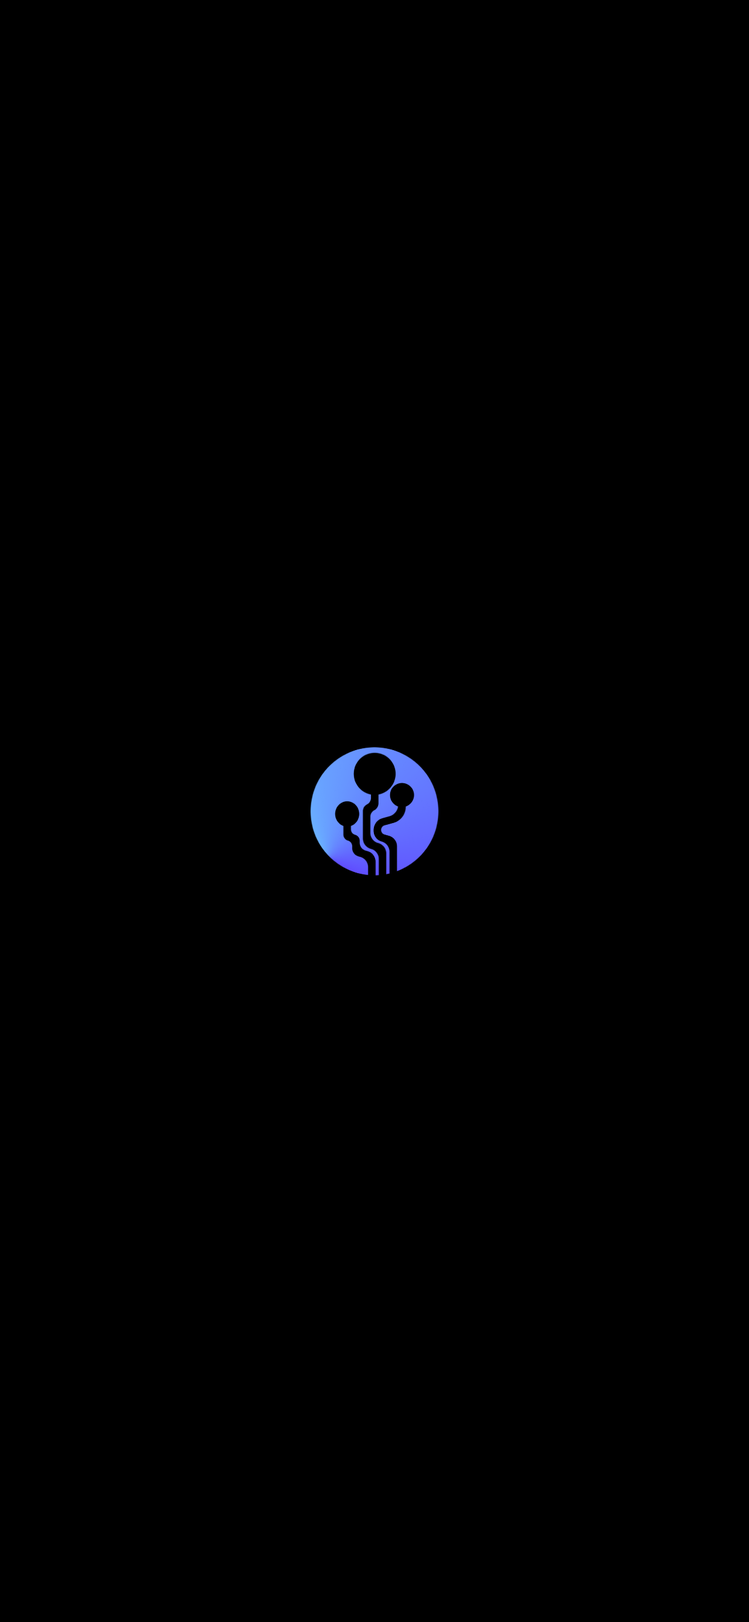
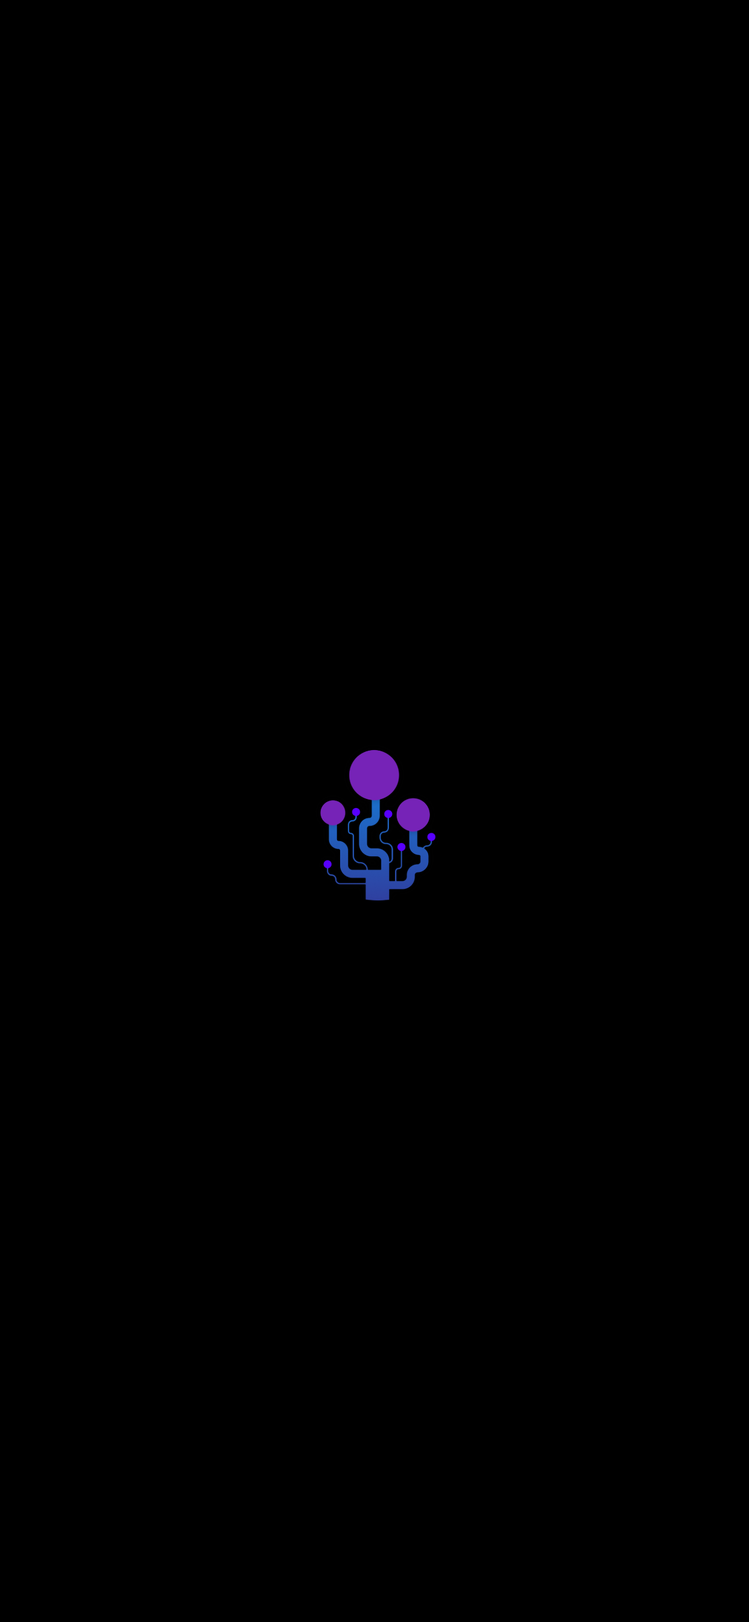
Rebranding

Changed region(s): [[0.3977, 0.4375, 0.5813, 0.5625]]

diff --git a/public/static/js/main.e8d6c904.js b/public/static/js/main.e8d6c904.js
@@ -1,0 +1,2 @@
+(()=>{var e={3598:(e,r,a)=>{var t={"./android.png":2479,"./app-core.png":2643,"./background.jpg":4940,"./docker.webp":164,"./express.png":3730,"./ios.png":2629,"./miro-rest.png":4083,"./mongodb.png":571,"./ngrok.png":4895,"./nodejs.png":7809,"./raspberrypi.png":4587,"./sai.png":2822,"./saileft.png":1729,"./section-actually.jpg":7322,"./section-platform.jpg":901,"./section-security.jpg":5726,"./ubuntuserver.png":7999};function n(e){var r=i(e);return a(r)}function i(e){if(!a.o(t,e)){var r=new Error("Cannot find module '"+e+"'");throw r.code="MODULE_NOT_FOUND",r}return t[e]}n.keys=function(){return Object.keys(t)},n.resolve=i,e.exports=n,n.id=3598},9784:(e,r,a)=>{"use strict";a.r(r),a.d(r,{default:()=>_});var t=a(4942),n=a(9439),i=a(5861),o=a(574),s=a(5911),l=a(2703),c=a(5899),d=a(5908),u=a(3026),p=a(1019),h=a(4755),f=a(6625),g=a(3102),b=a(1787),m=a(7557);function x(e){var r=e.children,t=e.style,n=e.uri,i=(0,p.default)(),l=(i.width,i.height,(0,s.useTheme)());return(0,m.jsxs)(o.Flex,{style:t,children:[n&&(0,m.jsxs)(o.Flex,{w:"100%",h:"100%",center:!0,style:{position:"absolute"},children:[(0,m.jsx)(b.default,{source:a(3598)("./"+n),resizeMode:"cover",style:{width:"100%",height:"100%",zIndex:-10}}),(0,m.jsx)(o.Flex,{w:"100%",h:"100%",style:{backgroundColor:l.colors.cover,position:"absolute"}})]}),(0,m.jsx)(o.Flex,{w:"100%",maxW:1e3,pv:100,ph:25,style:{alignSelf:"center"},children:r})]})}var j=a(5931),v=a(2727);a(9526);function y(e){e.children;var r=e.title,t=e.content,n=e.action,i=e.text,u=e.uri,p=e.icon,h=(0,s.useTheme)();return(0,m.jsxs)(o.VStack,{spacing:10,fill:!0,style:{borderColor:h.colors.outline,borderWidth:1,borderStyle:"solid",borderRadius:10},p:20,children:[u&&(0,m.jsx)(d.Image,{contentFit:"contain",contentPosition:"left center",source:a(3598)("./"+u),style:{width:150,height:150}}),r&&(0,m.jsx)(c.default,{variant:"titleLarge",children:r}),t&&(0,m.jsx)(c.default,{variant:"bodyLarge",children:t}),n&&(0,m.jsxs)(m.Fragment,{children:[(0,m.jsx)(o.Spacer,{pb:25}),(0,m.jsx)(o.HStack,{justify:"end",children:(0,m.jsx)(l.default,{mode:"outlined",icon:null!=p?p:null,onPress:function(){return n()},children:i})})]})]})}function w(){var e=(0,s.useTheme)(),r=(0,v.useNavigation)(),t=(0,p.default)(),n=t.width,b=t.height,w=(0,h.useSharedValue)(0),S=(0,f.useAnimatedStyle)(function(){var e=function(){return{transform:[{translateY:w.value}]}};return e._closure={scrollY:w},e.asString="function _f(){const{scrollY}=jsThis._closure;{return{transform:[{translateY:scrollY.value}]};}}",e.__workletHash=3073542876934,e.__location="C:\\Users\\misog\\Documents\\git\\miro-app\\views\\StartingPage.jsx (27:42)",e.__optimalization=3,e}());return(0,m.jsxs)(u.default,{onScroll:function(e){w.value=.5*e.nativeEvent.contentOffset.y},scrollEventThrottle:16,style:{height:"100%",backgroundColor:e.colors.background},children:[(0,m.jsxs)(o.Flex,{center:!0,w:n,h:b,style:{shadowColor:e.colors.shadow,shadowOffset:{width:0,height:0},shadowRadius:50,overflow:"hidden",zIndex:10},children:[(0,m.jsx)(g.default,{style:[{width:"100%",height:"100%"},S],children:(0,m.jsx)(d.Image,{source:a(4940),contentFit:"cover",contentPosition:"center",style:{width:"100%",height:"100%"}})}),(0,m.jsx)(o.Flex,{center:!0,style:{position:"absolute",width:"100%",height:"100%",backgroundColor:e.colors.backdrop,zIndex:5},children:(0,m.jsxs)(o.VStack,{center:!0,ph:"10vw",w:"100%",h:"100%",spacing:20,children:[(0,m.jsx)(d.Image,{source:a(2822),contentFit:"contain",style:{height:"50%",width:"90%",maxWidth:750,maxHeight:150}}),(0,m.jsx)(o.Wrap,{spacing:10,children:(0,m.jsx)(l.default,{icon:"github",mode:"contained",onPress:(0,i.default)((function*(){yield j.openURL("https://www.github.com/SAI-COLOMOS")})),children:"Ver GitHub"})})]})})]}),(0,m.jsx)(x,{uri:"section-actually.jpg",children:(0,m.jsxs)(o.VStack,{spacing:20,children:[(0,m.jsx)(o.Flex,{w:"100%",children:(0,m.jsx)(c.default,{variant:"displayMedium",children:"\xbfPor qu\xe9 seguir haciendo las cosas a la antigua?"})}),(0,m.jsx)(o.Flex,{w:"100%",children:(0,m.jsx)(c.default,{variant:"bodyLarge",children:"En un mundo donde la era digital es dominante... \xbfpor qu\xe9 no modernizarse? Gracias a la tecnolog\xeda podemos automatizar procesos que pueden llegar a ser repetitivos, adem\xe1s de que tambi\xe9n podemos delegar tareas para que sean justamente los dispositivos electr\xf3nicos quienes se encarguen de llevarlas a cabo, siendo, en algunos casos, mejor ejecutas que si un humano lo hubiese hecho"})})]})}),(0,m.jsx)(x,{uri:"section-platform.jpg",children:(0,m.jsxs)(o.VStack,{spacing:20,children:[(0,m.jsx)(o.Flex,{w:"100%",children:(0,m.jsx)(c.default,{variant:"displayMedium",children:"Una plataforma para administrarlo todo"})}),(0,m.jsx)(o.Flex,{w:"100%",children:(0,m.jsx)(c.default,{variant:"bodyLarge",children:"Nosotros creemos que hay mejores maneras de hacer las cosas, una de ellas es llevar a cabo la administraci\xf3n del servicio social, es por ello, que decidimos crear una plataforma la cual pueda cumplir con esta tarea y, de esta manera, es que desarrollamos tanto una API como una aplicaci\xf3n m\xf3vil"})})]})}),(0,m.jsx)(x,{style:{backgroundColor:e.colors.tertiaryContainer,shadowColor:e.colors.shadow,shadowOffset:{width:0,height:0},shadowRadius:50,zIndex:10},children:(0,m.jsxs)(o.VStack,{spacing:20,children:[(0,m.jsx)(o.Flex,{w:"100%",children:(0,m.jsx)(c.default,{variant:"displayMedium",children:"Aplicaci\xf3n y servidor, un match perfecto"})}),(0,m.jsxs)(o.VStack,{w:"100%",spacing:20,children:[(0,m.jsx)(c.default,{variant:"bodyLarge",children:"Nuestra plataforma se compone de dos pilares fundamentales: nuestro servidor, el cual funciona como una API REST; y nuestra aplicaci\xf3n, que es el medio por el cual los usuarios har\xe1n uso de la plataforma"}),(0,m.jsxs)(o.Wrap,{spacing:20,wrap:"wrap",children:[(0,m.jsx)(o.VStack,{fill:!0,minW:300,children:(0,m.jsx)(y,{uri:"miro-rest.png",title:"MIRO-REST",content:"Es nuestro servidor, el cual consta de propiamente dicho, un\r servidor, y que adem\xe1s cuenta con una base de datos",action:function(){return r.navigate("Detalles t\xe9cnicos del servidor")},text:"Ver detalles t\xe9cnicos",icon:"format-list-bulleted-type"})}),(0,m.jsx)(o.VStack,{fill:!0,minW:300,children:(0,m.jsx)(y,{uri:"app-core.png",title:"Servicio social",content:"Es la aplicaci\xf3n mediante la cual, los administradores,\r encargados y prestadores har\xe1 uso de la plataforma",action:function(){return r.navigate("Detalles t\xe9cnicos de la aplicaci\xf3n")},text:"Ver detalles t\xe9cnicos",icon:"format-list-bulleted-type"})})]})]})]})}),(0,m.jsx)(x,{uri:"section-security.jpg",children:(0,m.jsxs)(o.VStack,{children:[(0,m.jsx)(o.Flex,{w:"100%",children:(0,m.jsx)(c.default,{variant:"displayMedium",children:"Seguridad ante todo"})}),(0,m.jsxs)(o.VStack,{w:"100%",spacing:20,children:[(0,m.jsx)(c.default,{variant:"bodyLarge",children:"Nos tomamos en serio tu privacidad, ya que al ser una plataforma que maneja datos personales, es necesario que sepas qu\xe9 hacemos con toda la informaci\xf3n que t\xfa y los dem\xe1s usuarios nos brindan. Es por ello que cumplimos con ciertas caracter\xedsticas para que puedas estar tranquilo de que tu informaci\xf3n est\xe1 en un buen lugar"}),(0,m.jsx)(o.Flex,{justify:"end",items:"end",children:(0,m.jsx)(l.default,{mode:"outlined",icon:"security",onPress:(0,i.default)((function*(){return yield j.openURL("https://api.sai-colomos.dev/security-report.pdf")})),children:"Ver reporte de seguridad"})})]})]})}),(0,m.jsx)(o.Flex,{style:{backgroundColor:"#000",shadowColor:e.colors.shadow,shadowOffset:{width:0,height:0},shadowRadius:50,overflow:"hidden",zIndex:10},children:(0,m.jsxs)(o.Wrap,{wrap:"wrap",spacing:20,w:"100%",maxW:1e3,pt:50,pb:100,ph:25,style:{alignSelf:"center"},children:[(0,m.jsxs)(o.VStack,{fill:!0,minW:300,spacing:10,children:[(0,m.jsx)(d.Image,{source:a(1729),contentFit:"contain",contentPosition:"left center",style:{width:"auto",height:75}}),(0,m.jsx)(c.default,{variant:"bodyLarge",children:"Derechos reservados. 2023 \xa9"})]}),(0,m.jsxs)(o.Flex,{fill:!0,minW:300,items:n>600?"end":"start",children:[(0,m.jsx)(c.default,{role:"link",href:"https://www.github.com/SAI-COLOMOS",variant:"bodyMedium",children:"GitHub"}),(0,m.jsx)(c.default,{role:"button",onPress:function(){return r.navigate("Detalles t\xe9cnicos del servidor")},variant:"bodyMedium",children:"Detalles t\xe9cnicos del servidor"}),(0,m.jsx)(c.default,{onPress:function(){return r.navigate("Detalles t\xe9cnicos de la aplicaci\xf3n")},variant:"bodyMedium",children:"Detalles t\xe9cnicos de la aplicaci\xf3n"}),(0,m.jsx)(c.default,{role:"link",href:"https://api.sai-colomos.dev/security-report.pdf",variant:"bodyMedium",children:"Reporte de seguridad"})]})]})})]})}var S=a(2698),k=a(3615),O=a(5690),q=a(477),C=a(7077);function P(e){var r=e.title,a=e.children,t=(0,s.useTheme)(),n=(0,p.default)().height,i=(0,v.useNavigation)();return(0,m.jsxs)(q.default,{style:{overflow:"hidden",height:n,backgroundColor:t.colors.background},children:[(0,m.jsx)(o.Flex,{style:{shadowRadius:50,shadowOffset:{width:0,height:0},shadowColor:t.colors.shadow,zIndex:10},children:(0,m.jsxs)(o.HStack,{justify:"between",items:"baseline",w:"100%",maxW:1e3,pv:25,ph:25,style:{alignSelf:"center"},spacing:20,children:[(0,m.jsx)(o.Flex,{fill:!0,children:(0,m.jsx)(c.default,{variant:"headlineLarge",children:r})}),(0,m.jsx)(C.default,{icon:"close",size:25,mode:"outlined",onPress:function(){return i.goBack()}})]})}),(0,m.jsx)(o.Flex,{fill:!0,children:(0,m.jsx)(u.default,{children:a})})]})}function F(){var e=(0,s.useTheme)();return(0,m.jsx)(P,{title:"Detalles t\xe9cnicos de la aplicaci\xf3n",children:(0,m.jsxs)(o.VStack,{children:[(0,m.jsx)(x,{style:{backgroundColor:e.colors.backdrop},children:(0,m.jsxs)(m.Fragment,{children:[(0,m.jsx)(c.default,{variant:"titleLarge",children:"Un lenguaje varias posibilidades"}),(0,m.jsx)(c.default,{variant:"bodyLarge",children:"La aplicaci\xf3n fue creada enteramente con JavaScript, utilizando la librer\xeda de React Native y el framework de Expo"})]})}),(0,m.jsx)(x,{style:{backgroundColor:e.colors.primaryContainer},children:(0,m.jsxs)(m.Fragment,{children:[(0,m.jsx)(c.default,{variant:"titleLarge",children:"Multiplataforma, nadie se queda afuera"}),(0,m.jsx)(c.default,{variant:"bodyLarge",children:"Gracias a la versatilidad de React Native, nuestra aplicaci\xf3n est\xe1 disponible para los dos principales sistemas operativos para tel\xe9fonos inteligentes: iOS y Android, por lo que cualquier persona podr\xe1 utilizar esta app sin importar qu\xe9 dispositivo m\xf3vil utilice, claro, siempre y cuando este cumpla con los requisitos m\xednimos de hardware y software"}),(0,m.jsxs)(o.Wrap,{spacing:20,wrap:"wrap",pt:20,children:[(0,m.jsx)(o.VStack,{fill:!0,minW:300,children:(0,m.jsx)(y,{uri:"android.png",title:"Android",content:"Nuestra aplicaci\xf3n es compatible con todos aquellos\r dispositivos Android que tengan la versi\xf3n 5 en adelante"})}),(0,m.jsx)(o.VStack,{fill:!0,minW:300,children:(0,m.jsx)(y,{uri:"ios.png",title:"iOS",content:"Nuestra aplicaci\xf3n es compatible con todos aquellos\r dispositivos iOS que tengan la versi\xf3n 13 en adelante"})})]})]})})]})})}function V(){var e=(0,s.useTheme)();return(0,m.jsx)(P,{title:"Detalles t\xe9cnicos del servidor",children:(0,m.jsxs)(o.VStack,{children:[(0,m.jsx)(x,{style:{backgroundColor:e.colors.backdrop},children:(0,m.jsxs)(m.Fragment,{children:[(0,m.jsx)(c.default,{variant:"titleLarge",children:"Un viejo conocido bajo el cap\xf3"}),(0,m.jsx)(c.default,{variant:"bodyLarge",children:"Nuestro servidor corre enteramente gracias a TypeScript, un superconjunto de JavaScript, con esto nos aseguramos de brindar un software lo suficientemente robusto, estable y a su vez escalable y familiar"})]})}),(0,m.jsx)(x,{style:{backgroundColor:e.colors.primaryContainer},children:(0,m.jsxs)(m.Fragment,{children:[(0,m.jsx)(c.default,{variant:"titleLarge",children:"Node.JS, Express y MongoDB"}),(0,m.jsx)(c.default,{variant:"bodyLarge",children:"El trio perfecto para entregar un software robusto y moderno a la vez"}),(0,m.jsxs)(o.Wrap,{spacing:20,wrap:"wrap",pt:20,children:[(0,m.jsx)(o.VStack,{fill:!0,minW:300,children:(0,m.jsx)(y,{uri:"nodejs.png",title:"Node.js",content:"El director encargado de orquestar esta obra, pues es gracias\r a \xe9l que el servidor funciona"})}),(0,m.jsx)(o.VStack,{fill:!0,minW:300,children:(0,m.jsx)(y,{uri:"express.png",title:"Express",content:"\xbfUna nueva petici\xf3n acaba de llegar al servidor? No hay\r problema, Express se encarga de recibirlas y contestarlas, as\xed\r como de realizar las modificaciones solicitadas"})}),(0,m.jsx)(o.VStack,{fill:!0,minW:300,children:(0,m.jsx)(y,{uri:"mongodb.png",title:"MongoDB",content:"Un servidor no es servidor si este no cuenta con su respectiva\r base de datos, as\xed que MongoBD llega para tomar dicho rol tan\r importante: almacenar informaci\xf3n"})})]})]})}),(0,m.jsx)(x,{style:{backgroundColor:e.colors.secondaryContainer},children:(0,m.jsxs)(m.Fragment,{children:[(0,m.jsx)(c.default,{variant:"titleLarge",children:"Acerca de la infraestructura"}),(0,m.jsx)(c.default,{variant:"bodyLarge",children:"Sin esto, el software simplemente no funcionaria"}),(0,m.jsxs)(o.Wrap,{spacing:20,wrap:"wrap",pt:20,children:[(0,m.jsx)(o.VStack,{fill:!0,minW:300,children:(0,m.jsx)(y,{uri:"docker.webp",title:"Docker",content:"Docker se encarga de virtualizar, contener, ejecutar \r y asilar los dos contenedores (uno para la API y otro para la \r base de datos) que conforman el servidor"})}),(0,m.jsx)(o.VStack,{fill:!0,minW:300,children:(0,m.jsx)(y,{uri:"ngrok.png",title:"ngrok",content:"\xbfTener que mover el servidor? Claro, no hay necesidad de\r configurar la IP est\xe1tica y alterar los DNS que apunten a nuestro\r servidor, ngrok nos ayuda con ello levantando un t\xfanel que lo conecte\r con el internet"})}),(0,m.jsx)(o.VStack,{fill:!0,minW:300,children:(0,m.jsx)(y,{uri:"ubuntuserver.png",title:"Ubuntu Server",content:"Un servidor con Linux, \xbfquien lo dir\xeda? Todo el software\r es ejecutado bajo la tutela de Ubuntu Server"})}),(0,m.jsx)(o.VStack,{fill:!0,minW:300,children:(0,m.jsx)(y,{uri:"raspberrypi.png",title:"Raspberry Pi",content:"No todo es software, actualmente el servidor est\xe1 alojado\r en una Raspberry Pi v4, ideal para realizar proyectos escolares y de IT"})})]})]})})]})})}var D=(0,a(442).default)();function L(){return(0,m.jsxs)(D.Navigator,{initialRouteName:"Inicio",screenOptions:{headerShown:!1,animation:"fade",contentStyle:{height:50}},children:[(0,m.jsx)(D.Screen,{name:"Inicio",component:w}),(0,m.jsx)(D.Screen,{name:"Detalles t\xe9cnicos del servidor",component:V}),(0,m.jsx)(D.Screen,{name:"Detalles t\xe9cnicos de la aplicaci\xf3n",component:F})]})}var W=a(8083),E={dark:!0,colors:{primary:"rgb(220, 184, 255)",onPrimary:"rgb(71, 12, 122)",primaryContainer:"rgb(95, 43, 146)",onPrimaryContainer:"rgb(240, 219, 255)",secondary:"rgb(208, 193, 218)",onSecondary:"rgb(54, 44, 63)",secondaryContainer:"rgb(77, 67, 87)",onSecondaryContainer:"rgb(237, 221, 246)",tertiary:"rgb(243, 183, 190)",onTertiary:"rgb(75, 37, 43)",tertiaryContainer:"rgb(101, 58, 65)",onTertiaryContainer:"rgb(255, 217, 221)",error:"rgb(255, 180, 171)",onError:"rgb(105, 0, 5)",errorContainer:"rgb(147, 0, 10)",onErrorContainer:"rgb(255, 180, 171)",background:"rgb(29, 27, 30)",onBackground:"rgb(231, 225, 229)",surface:"rgb(29, 27, 30)",onSurface:"rgb(231, 225, 229)",surfaceVariant:"rgb(74, 69, 78)",onSurfaceVariant:"rgb(204, 196, 206)",outline:"rgb(150, 142, 152)",outlineVariant:"rgb(74, 69, 78)",shadow:"rgb(0, 0, 0)",scrim:"rgb(0, 0, 0)",inverseSurface:"rgb(231, 225, 229)",inverseOnSurface:"rgb(50, 47, 51)",inversePrimary:"rgb(120, 69, 172)",elevation:{level0:"transparent",level1:"rgb(39, 35, 41)",level2:"rgb(44, 40, 48)",level3:"rgb(50, 44, 55)",level4:"rgb(52, 46, 57)",level5:"rgb(56, 49, 62)"},surfaceDisabled:"rgba(231, 225, 229, 0.12)",onSurfaceDisabled:"rgba(231, 225, 229, 0.38)",backdrop:"rgba(51, 47, 55, 0.4)",cover:"rgba(31, 27, 35, 0.8)"}};function M(e,r){var a=Object.keys(e);if(Object.getOwnPropertySymbols){var t=Object.getOwnPropertySymbols(e);r&&(t=t.filter((function(r){return Object.getOwnPropertyDescriptor(e,r).enumerable}))),a.push.apply(a,t)}return a}function T(e){for(var r=1;r<arguments.length;r++){var a=null!=arguments[r]?arguments[r]:{};r%2?M(Object(a),!0).forEach((function(r){(0,t.default)(e,r,a[r])})):Object.getOwnPropertyDescriptors?Object.defineProperties(e,Object.getOwnPropertyDescriptors(a)):M(Object(a)).forEach((function(r){Object.defineProperty(e,r,Object.getOwnPropertyDescriptor(a,r))}))}return e}function _(){var e=(0,W.useFonts)({LexendDeca:a(1775)});if((0,n.default)(e,1)[0]){var r=T(T({},E),{},{fonts:(0,S.default)({config:{fontFamily:"LexendDeca"}})});return(0,m.jsx)(k.default,{theme:r,children:(0,m.jsx)(O.default,{theme:r,children:(0,m.jsx)(L,{})})})}return null}},1775:(e,r,a)=>{"use strict";e.exports=a.p+"static/media/LexendDeca.85a26ab7491852266e9b.ttf"},164:(e,r,a)=>{"use strict";e.exports=a.p+"static/media/docker.50ef259c2ba21b66c115.webp"},2479:(e,r,a)=>{"use strict";e.exports=a.p+"static/media/android.1069615e0494feaf1759.png"},2643:(e,r,a)=>{"use strict";e.exports=a.p+"static/media/app-core.80c3330efecebbd5330b.png"},4940:(e,r,a)=>{"use strict";e.exports=a.p+"static/media/background.29b1b8fd50e59ae0f52c.jpg"},3730:(e,r,a)=>{"use strict";e.exports=a.p+"static/media/express.9ca72e66d293a4b6af4b.png"},2629:(e,r,a)=>{"use strict";e.exports=a.p+"static/media/ios.7751f69fbba407de6b8e.png"},4083:(e,r,a)=>{"use strict";e.exports=a.p+"static/media/miro-rest.5f01768cd593059c90cd.png"},571:(e,r,a)=>{"use strict";e.exports=a.p+"static/media/mongodb.3a364684503a40b5fbb2.png"},4895:(e,r,a)=>{"use strict";e.exports=a.p+"static/media/ngrok.96924a838aba064d84b3.png"},7809:(e,r,a)=>{"use strict";e.exports=a.p+"static/media/nodejs.abfaef34ea49d0c7cd3c.png"},4587:(e,r,a)=>{"use strict";e.exports=a.p+"static/media/raspberrypi.70eccdd62334be1be186.png"},2822:(e,r,a)=>{"use strict";e.exports=a.p+"static/media/sai.22a68ad6c62ac595a7cd.png"},1729:(e,r,a)=>{"use strict";e.exports=a.p+"static/media/saileft.22a68ad6c62ac595a7cd.png"},7322:(e,r,a)=>{"use strict";e.exports=a.p+"static/media/section-actually.6729cc9df1cfc8d35820.jpg"},901:(e,r,a)=>{"use strict";e.exports=a.p+"static/media/section-platform.0332f0dfd0127fc41d8a.jpg"},5726:(e,r,a)=>{"use strict";e.exports=a.p+"static/media/section-security.079fde31563fdf7cd8c2.jpg"},7999:(e,r,a)=>{"use strict";e.exports=a.p+"static/media/ubuntuserver.fca5830985d91d4f0769.png"},4654:()=>{}},r={};function a(t){var n=r[t];if(void 0!==n)return n.exports;var i=r[t]={id:t,loaded:!1,exports:{}};return e[t].call(i.exports,i,i.exports,a),i.loaded=!0,i.exports}a.m=e,(()=>{var e=[];a.O=(r,t,n,i)=>{if(!t){var o=1/0;for(d=0;d<e.length;d++){for(var[t,n,i]=e[d],s=!0,l=0;l<t.length;l++)(!1&i||o>=i)&&Object.keys(a.O).every((e=>a.O[e](t[l])))?t.splice(l--,1):(s=!1,i<o&&(o=i));if(s){e.splice(d--,1);var c=n();void 0!==c&&(r=c)}}return r}i=i||0;for(var d=e.length;d>0&&e[d-1][2]>i;d--)e[d]=e[d-1];e[d]=[t,n,i]}})(),a.n=e=>{var r=e&&e.__esModule?()=>e.default:()=>e;return a.d(r,{a:r}),r},(()=>{var e,r=Object.getPrototypeOf?e=>Object.getPrototypeOf(e):e=>e.__proto__;a.t=function(t,n){if(1&n&&(t=this(t)),8&n)return t;if("object"===typeof t&&t){if(4&n&&t.__esModule)return t;if(16&n&&"function"===typeof t.then)return t}var i=Object.create(null);a.r(i);var o={};e=e||[null,r({}),r([]),r(r)];for(var s=2&n&&t;"object"==typeof s&&!~e.indexOf(s);s=r(s))Object.getOwnPropertyNames(s).forEach((e=>o[e]=()=>t[e]));return o.default=()=>t,a.d(i,o),i}})(),a.d=(e,r)=>{for(var t in r)a.o(r,t)&&!a.o(e,t)&&Object.defineProperty(e,t,{enumerable:!0,get:r[t]})},a.g=function(){if("object"===typeof globalThis)return globalThis;try{return this||new Function("return this")()}catch(e){if("object"===typeof window)return window}}(),a.o=(e,r)=>Object.prototype.hasOwnProperty.call(e,r),a.r=e=>{"undefined"!==typeof Symbol&&Symbol.toStringTag&&Object.defineProperty(e,Symbol.toStringTag,{value:"Module"}),Object.defineProperty(e,"__esModule",{value:!0})},a.nmd=e=>(e.paths=[],e.children||(e.children=[]),e),a.p="/",(()=>{var e={179:0};a.O.j=r=>0===e[r];var r=(r,t)=>{var n,i,[o,s,l]=t,c=0;if(o.some((r=>0!==e[r]))){for(n in s)a.o(s,n)&&(a.m[n]=s[n]);if(l)var d=l(a)}for(r&&r(t);c<o.length;c++)i=o[c],a.o(e,i)&&e[i]&&e[i][0](),e[i]=0;return a.O(d)},t=self.webpackChunkweb=self.webpackChunkweb||[];t.forEach(r.bind(null,0)),t.push=r.bind(null,t.push.bind(t))})();var t=a.O(void 0,[958],(()=>a(9484)));t=a.O(t)})();
+//# sourceMappingURL=main.e8d6c904.js.map

diff --git a/public/index.html b/public/index.html
@@ -1,1 +1,1 @@
-<!doctype html><html lang="en"><head><meta charset="utf-8"/><meta httpequiv="X-UA-Compatible" content="IE=edge"/><meta name="viewport" content="width=device-width,initial-scale=1,minimum-scale=1,maximum-scale=1.00001,viewport-fit=cover"/><title>Sistema Administrativo de la Información</title><style>#root,body,html{width:100%;-webkit-overflow-scrolling:touch;margin:0;padding:0;min-height:100%}#root{flex-shrink:0;flex-basis:auto;flex-grow:1;display:flex;flex:1}html{scroll-behavior:smooth;-webkit-text-size-adjust:100%;height:calc(100% + env(safe-area-inset-top))}body{display:flex;overflow-y:auto;overscroll-behavior-y:none;text-rendering:optimizeLegibility;-webkit-font-smoothing:antialiased;-moz-osx-font-smoothing:grayscale;-ms-overflow-style:scrollbar}</style><link rel="manifest" href="\manifest.json"><link rel="icon" type="image/png" sizes="16x16" href="\favicon-16.png"><link rel="icon" type="image/png" sizes="32x32" href="\favicon-32.png"><link rel="shortcut icon" href="\favicon.ico"><meta name="mobile-web-app-capable" content="yes"><meta name="apple-mobile-web-app-capable" content="yes"><meta name="apple-touch-fullscreen" content="yes"><meta name="apple-mobile-web-app-title" content="Sistema Administrativo de la Información"><meta name="apple-mobile-web-app-status-bar-style" content="black-translucent"><link rel="apple-touch-icon" sizes="180x180" href="\pwa\apple-touch-icon\apple-touch-icon-180.png"><link rel="apple-touch-startup-image" media="screen and (device-width: 320px) and (device-height: 568px) and (-webkit-device-pixel-ratio: 2) and (orientation: portrait)" href="\pwa\apple-touch-startup-image\apple-touch-startup-image-640x1136.png"><link rel="apple-touch-startup-image" media="screen and (device-width: 414px) and (device-height: 896px) and (-webkit-device-pixel-ratio: 3) and (orientation: portrait)" href="\pwa\apple-touch-startup-image\apple-touch-startup-image-1242x2688.png"><link rel="apple-touch-startup-image" media="screen and (device-width: 414px) and (device-height: 896px) and (-webkit-device-pixel-ratio: 2) and (orientation: portrait)" href="\pwa\apple-touch-startup-image\apple-touch-startup-image-828x1792.png"><link rel="apple-touch-startup-image" media="screen and (device-width: 375px) and (device-height: 812px) and (-webkit-device-pixel-ratio: 3) and (orientation: portrait)" href="\pwa\apple-touch-startup-image\apple-touch-startup-image-1125x2436.png"><link rel="apple-touch-startup-image" media="screen and (device-width: 414px) and (device-height: 736px) and (-webkit-device-pixel-ratio: 3) and (orientation: portrait)" href="\pwa\apple-touch-startup-image\apple-touch-startup-image-1242x2208.png"><link rel="apple-touch-startup-image" media="screen and (device-width: 375px) and (device-height: 667px) and (-webkit-device-pixel-ratio: 2) and (orientation: portrait)" href="\pwa\apple-touch-startup-image\apple-touch-startup-image-750x1334.png"><link rel="apple-touch-startup-image" media="screen and (device-width: 1024px) and (device-height: 1366px) and (-webkit-device-pixel-ratio: 2) and (orientation: portrait)" href="\pwa\apple-touch-startup-image\apple-touch-startup-image-2048x2732.png"><link rel="apple-touch-startup-image" media="screen and (device-width: 834px) and (device-height: 1194px) and (-webkit-device-pixel-ratio: 2) and (orientation: portrait)" href="\pwa\apple-touch-startup-image\apple-touch-startup-image-1668x2388.png"><link rel="apple-touch-startup-image" media="screen and (device-width: 834px) and (device-height: 1112px) and (-webkit-device-pixel-ratio: 2) and (orientation: portrait)" href="\pwa\apple-touch-startup-image\apple-touch-startup-image-1668x2224.png"><link rel="apple-touch-startup-image" media="screen and (device-width: 768px) and (device-height: 1024px) and (-webkit-device-pixel-ratio: 2) and (orientation: portrait)" href="\pwa\apple-touch-startup-image\apple-touch-startup-image-1536x2048.png"><script defer="defer" src="/static/js/958.3daf8c35.js"></script><script defer="defer" src="/static/js/main.d4bb841e.js"></script></head><body><noscript><form action="" style="background-color:#fff;position:fixed;top:0;left:0;right:0;bottom:0;z-index:9999"><div style="font-size:18px;font-family:Helvetica,sans-serif;line-height:24px;margin:10%;width:80%"><p>Oh no! It looks like JavaScript is not enabled in your browser.</p><p style="margin:20px 0"><button type="submit" style="background-color:#4630eb;border-radius:100px;border:none;box-shadow:none;color:#fff;cursor:pointer;font-weight:700;line-height:20px;padding:6px 16px">Reload</button></p></div></form></noscript><div id="root"></div></body></html>
+<!doctype html><html lang="en"><head><meta charset="utf-8"/><meta httpequiv="X-UA-Compatible" content="IE=edge"/><meta name="viewport" content="width=device-width,initial-scale=1,minimum-scale=1,maximum-scale=1.00001,viewport-fit=cover"/><title>Sistema Administrativo de la Información</title><style>#root,body,html{width:100%;-webkit-overflow-scrolling:touch;margin:0;padding:0;min-height:100%}#root{flex-shrink:0;flex-basis:auto;flex-grow:1;display:flex;flex:1}html{scroll-behavior:smooth;-webkit-text-size-adjust:100%;height:calc(100% + env(safe-area-inset-top))}body{display:flex;overflow-y:auto;overscroll-behavior-y:none;text-rendering:optimizeLegibility;-webkit-font-smoothing:antialiased;-moz-osx-font-smoothing:grayscale;-ms-overflow-style:scrollbar}</style><link rel="manifest" href="\manifest.json"><link rel="icon" type="image/png" sizes="16x16" href="\favicon-16.png"><link rel="icon" type="image/png" sizes="32x32" href="\favicon-32.png"><link rel="shortcut icon" href="\favicon.ico"><meta name="mobile-web-app-capable" content="yes"><meta name="apple-mobile-web-app-capable" content="yes"><meta name="apple-touch-fullscreen" content="yes"><meta name="apple-mobile-web-app-title" content="Sistema Administrativo de la Información"><meta name="apple-mobile-web-app-status-bar-style" content="black-translucent"><link rel="apple-touch-icon" sizes="180x180" href="\pwa\apple-touch-icon\apple-touch-icon-180.png"><link rel="apple-touch-startup-image" media="screen and (device-width: 320px) and (device-height: 568px) and (-webkit-device-pixel-ratio: 2) and (orientation: portrait)" href="\pwa\apple-touch-startup-image\apple-touch-startup-image-640x1136.png"><link rel="apple-touch-startup-image" media="screen and (device-width: 414px) and (device-height: 896px) and (-webkit-device-pixel-ratio: 3) and (orientation: portrait)" href="\pwa\apple-touch-startup-image\apple-touch-startup-image-1242x2688.png"><link rel="apple-touch-startup-image" media="screen and (device-width: 414px) and (device-height: 896px) and (-webkit-device-pixel-ratio: 2) and (orientation: portrait)" href="\pwa\apple-touch-startup-image\apple-touch-startup-image-828x1792.png"><link rel="apple-touch-startup-image" media="screen and (device-width: 375px) and (device-height: 812px) and (-webkit-device-pixel-ratio: 3) and (orientation: portrait)" href="\pwa\apple-touch-startup-image\apple-touch-startup-image-1125x2436.png"><link rel="apple-touch-startup-image" media="screen and (device-width: 414px) and (device-height: 736px) and (-webkit-device-pixel-ratio: 3) and (orientation: portrait)" href="\pwa\apple-touch-startup-image\apple-touch-startup-image-1242x2208.png"><link rel="apple-touch-startup-image" media="screen and (device-width: 375px) and (device-height: 667px) and (-webkit-device-pixel-ratio: 2) and (orientation: portrait)" href="\pwa\apple-touch-startup-image\apple-touch-startup-image-750x1334.png"><link rel="apple-touch-startup-image" media="screen and (device-width: 1024px) and (device-height: 1366px) and (-webkit-device-pixel-ratio: 2) and (orientation: portrait)" href="\pwa\apple-touch-startup-image\apple-touch-startup-image-2048x2732.png"><link rel="apple-touch-startup-image" media="screen and (device-width: 834px) and (device-height: 1194px) and (-webkit-device-pixel-ratio: 2) and (orientation: portrait)" href="\pwa\apple-touch-startup-image\apple-touch-startup-image-1668x2388.png"><link rel="apple-touch-startup-image" media="screen and (device-width: 834px) and (device-height: 1112px) and (-webkit-device-pixel-ratio: 2) and (orientation: portrait)" href="\pwa\apple-touch-startup-image\apple-touch-startup-image-1668x2224.png"><link rel="apple-touch-startup-image" media="screen and (device-width: 768px) and (device-height: 1024px) and (-webkit-device-pixel-ratio: 2) and (orientation: portrait)" href="\pwa\apple-touch-startup-image\apple-touch-startup-image-1536x2048.png"><script defer="defer" src="/static/js/958.3daf8c35.js"></script><script defer="defer" src="/static/js/main.e8d6c904.js"></script></head><body><noscript><form action="" style="background-color:#fff;position:fixed;top:0;left:0;right:0;bottom:0;z-index:9999"><div style="font-size:18px;font-family:Helvetica,sans-serif;line-height:24px;margin:10%;width:80%"><p>Oh no! It looks like JavaScript is not enabled in your browser.</p><p style="margin:20px 0"><button type="submit" style="background-color:#4630eb;border-radius:100px;border:none;box-shadow:none;color:#fff;cursor:pointer;font-weight:700;line-height:20px;padding:6px 16px">Reload</button></p></div></form></noscript><div id="root"></div></body></html>
